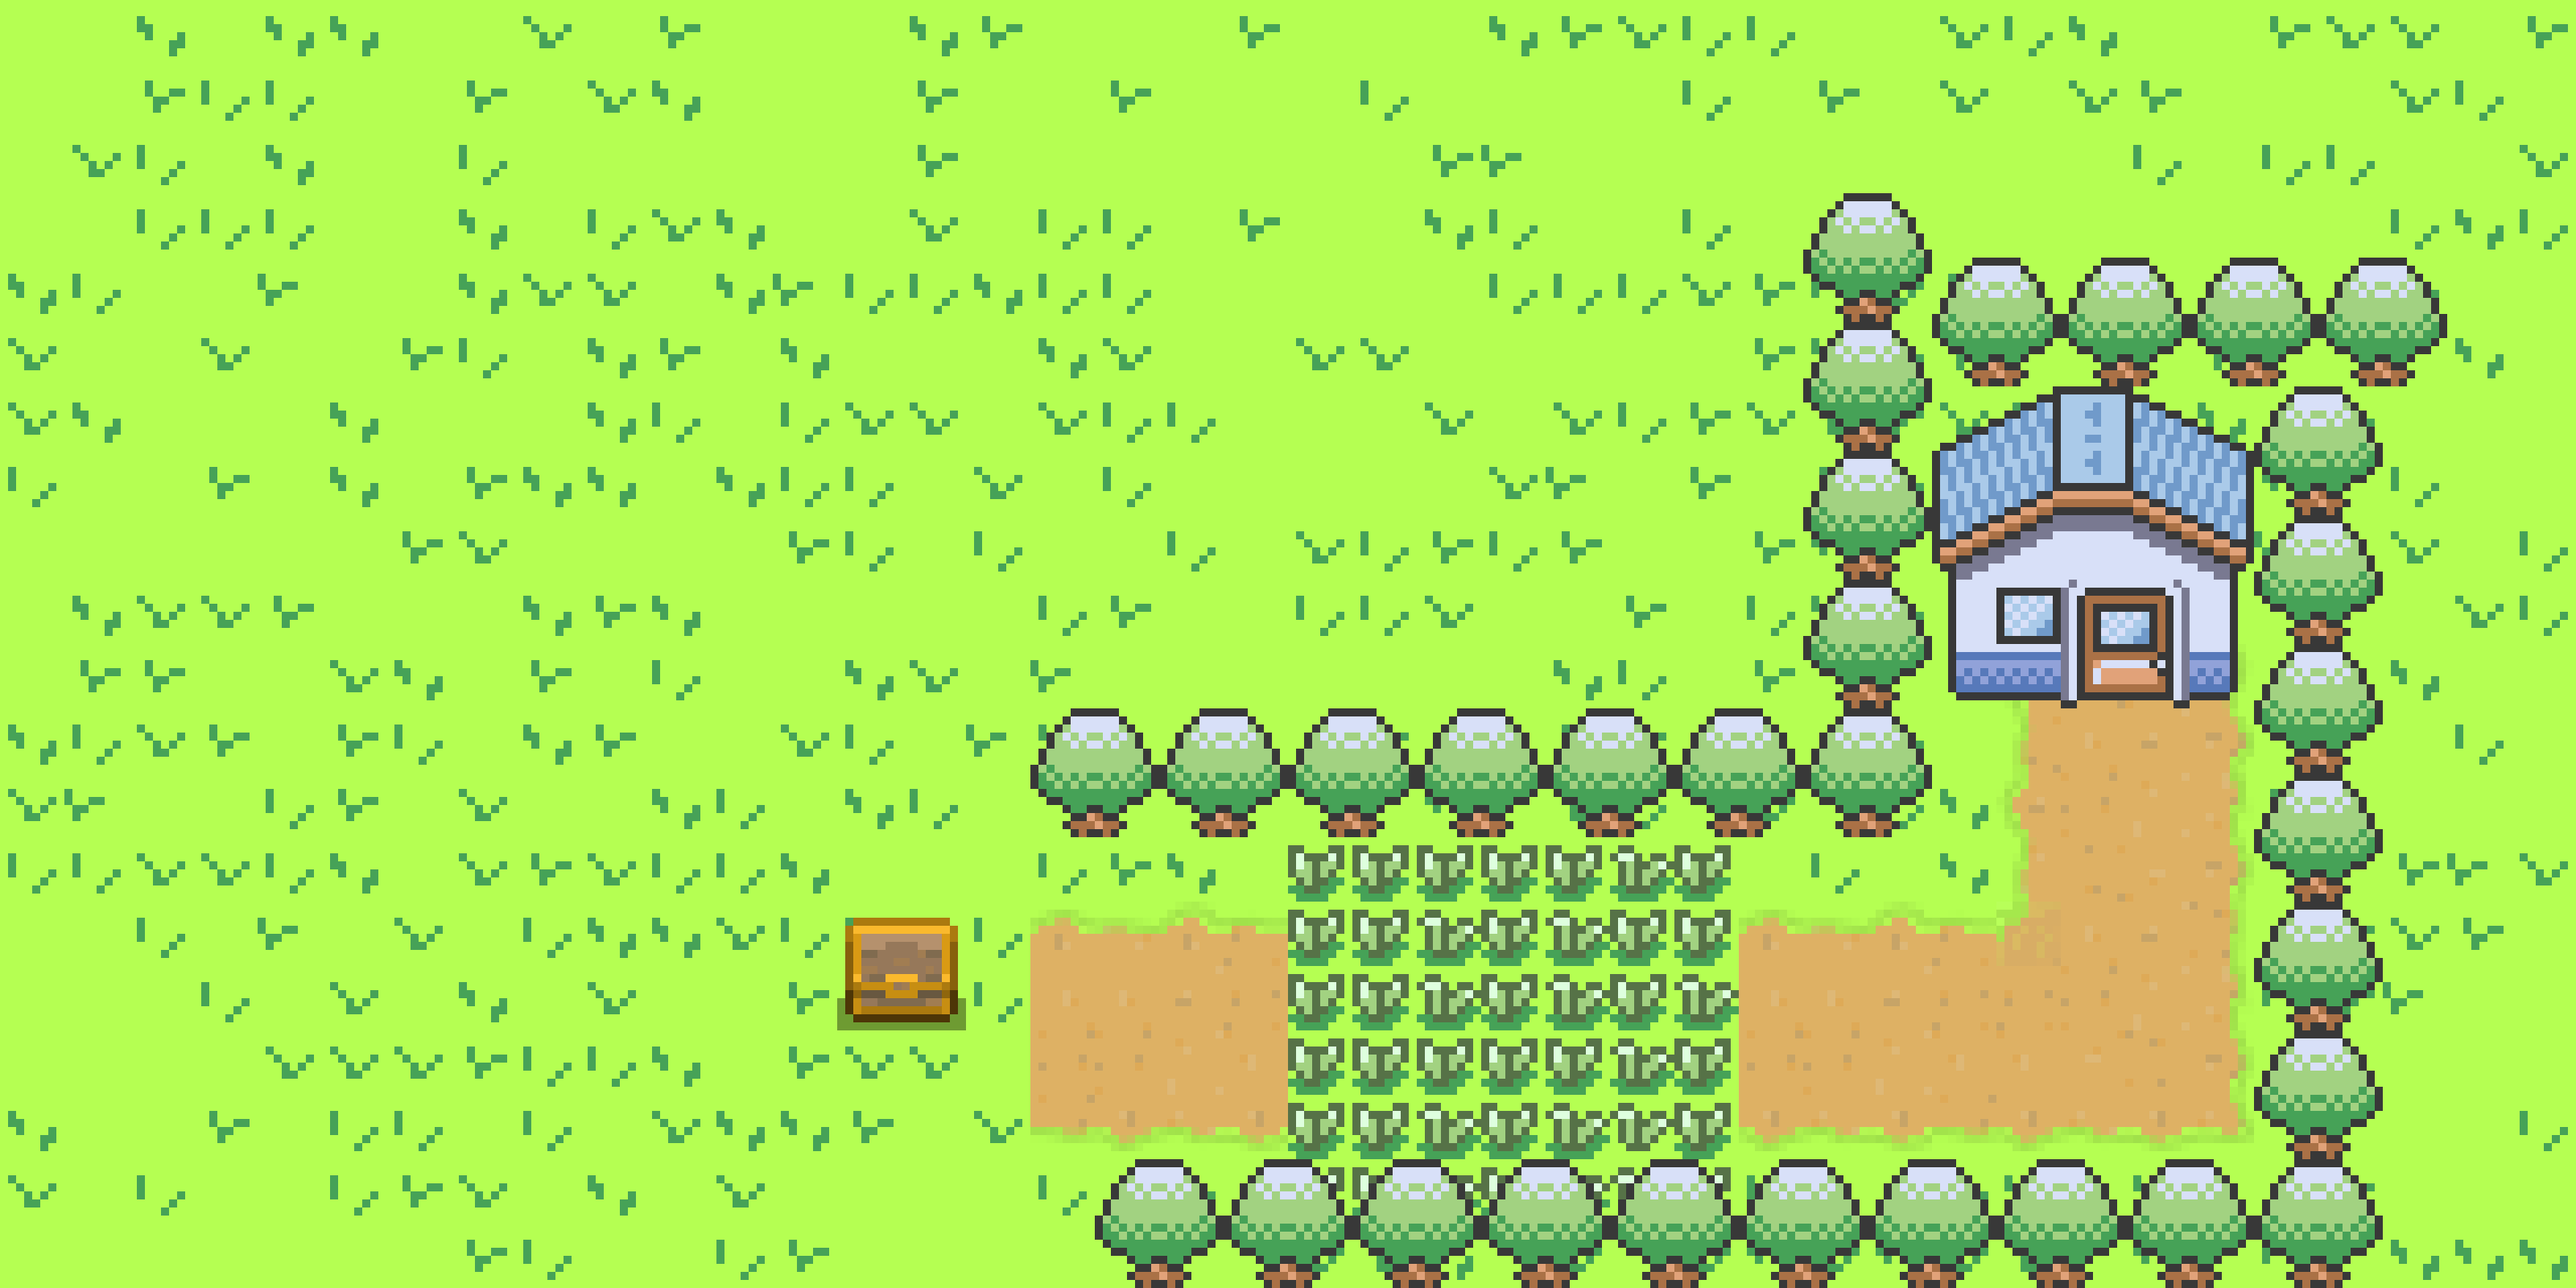
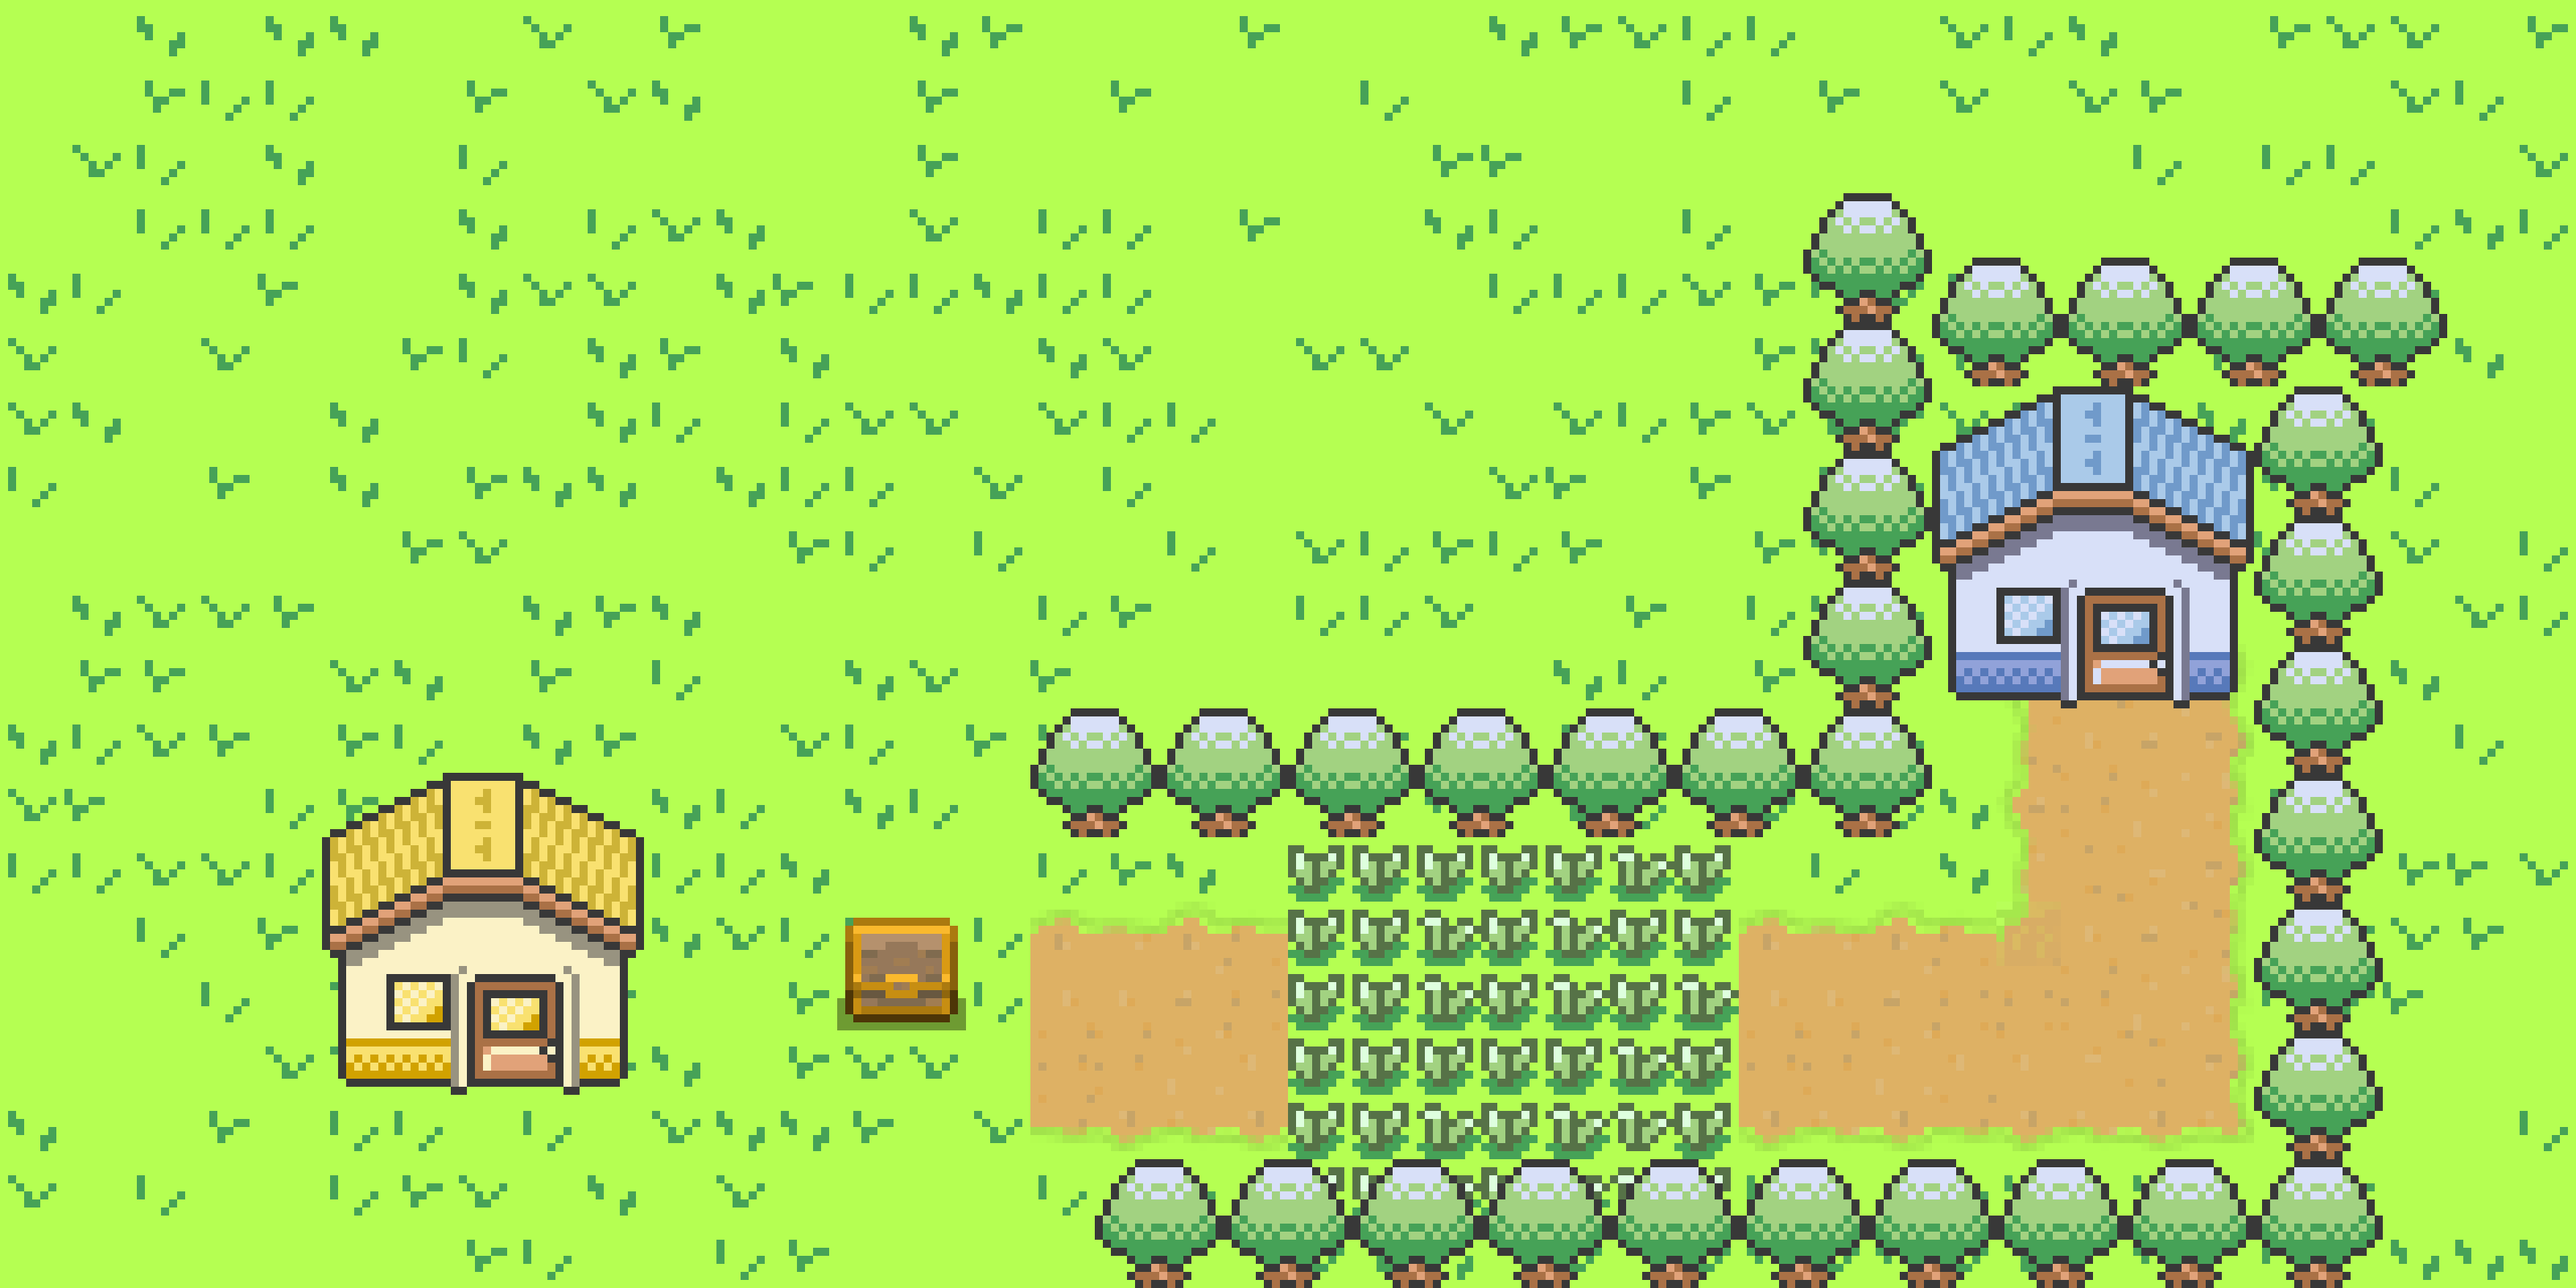
foreground layer

Changed region(s): [[0.125, 0.5938, 0.25, 0.8438]]

diff --git a/res/js/main.js b/res/js/main.js
@@ -1,3 +1,5 @@
+import { collisions } from "./collisions.js";
+
 const canvas = document.querySelector("canvas");
 const ctx = canvas.getContext("2d");
 
@@ -14,11 +16,6 @@ class Boundary {
     this.position = position;
     this.width = 80;
     this.height = 80;
-  }
-
-  draw() {
-    ctx.fillStyle = "red";
-    ctx.fillRect(this.position.x, this.position.y, this.width, this.height);
   }
 }
 
@@ -49,6 +46,9 @@ image.src = "./res/img/maps/testmap.png";
 
 const characterImage = new Image();
 characterImage.src = "./res/img/characters/characterDown.png";
+
+const foregroundImage = new Image();
+foregroundImage.src = "./res/img/maps/foreground.png";
 
 class Sprite {
   constructor({ position, image, frames = { max: 1 } }) {
@@ -88,6 +88,11 @@ const background = new Sprite({
   image: image,
 });
 
+const foreground = new Sprite({
+  position: { x: -1920, y: -600 },
+  image: foregroundImage,
+});
+
 const keys = {
   w: {
     pressed: false,
@@ -102,18 +107,16 @@ const keys = {
     pressed: false,
   },
 };
-coliding = false;
+
 // Drawing images
 
-const movables = [background, ...boundaries];
+const movables = [background, ...boundaries, foreground];
 
 function animation() {
   window.requestAnimationFrame(animation);
   background.draw();
-  boundaries.forEach((boundary) => {
-    boundary.draw();
-  });
   character.draw();
+  foreground.draw();
   let coliding = false;
 
   // Moving UP

diff --git a/index.html b/index.html
@@ -8,7 +8,6 @@
   </head>
   <body>
     <canvas></canvas>
-    <script src="./res/js/collisions.js"></script>
-    <script src="./res/js/main.js"></script>
+    <script type="module" src="./res/js/main.js"></script>
   </body>
 </html>

diff --git a/res/js/collisions.js b/res/js/collisions.js
@@ -33,3 +33,5 @@ const collisions = [
   0, 0, 0, 0, 0, 0, 0, 92, 92, 92, 92, 92, 92, 92, 92, 92, 92, 92, 92, 92, 92,
   92, 92, 92, 92, 92, 92, 0, 0, 0,
 ];
+
+export { collisions };
